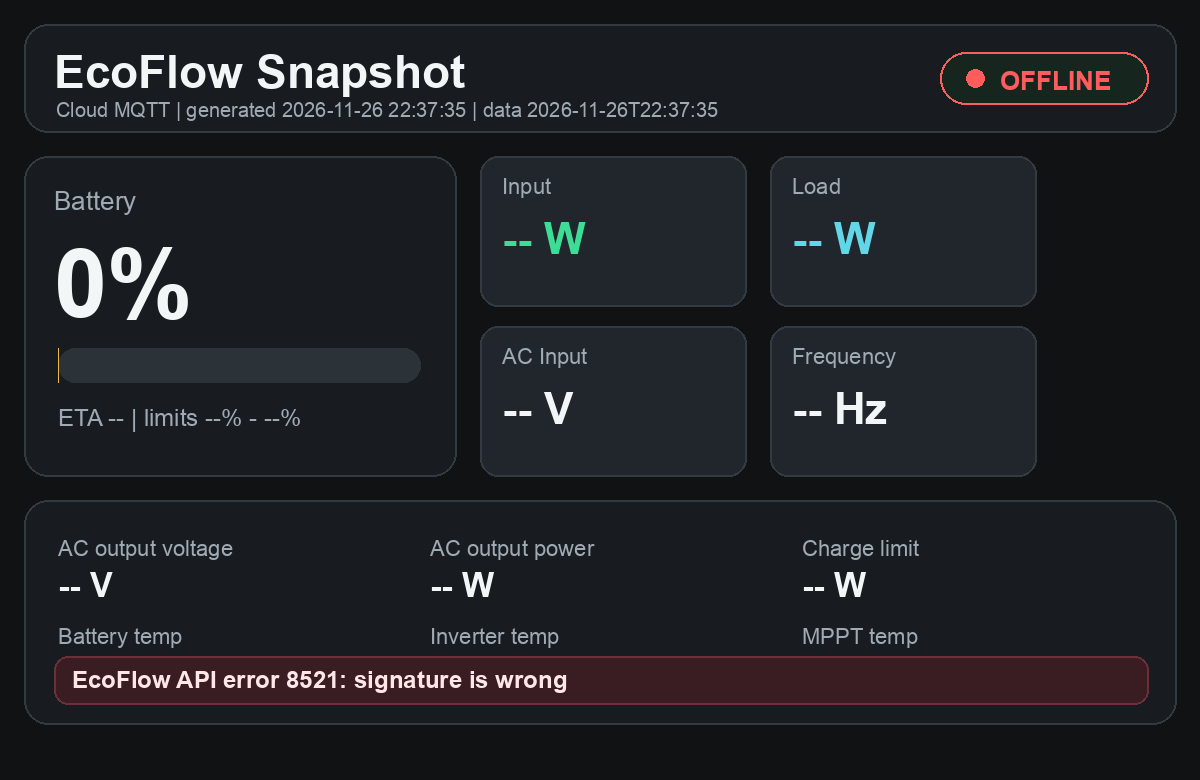
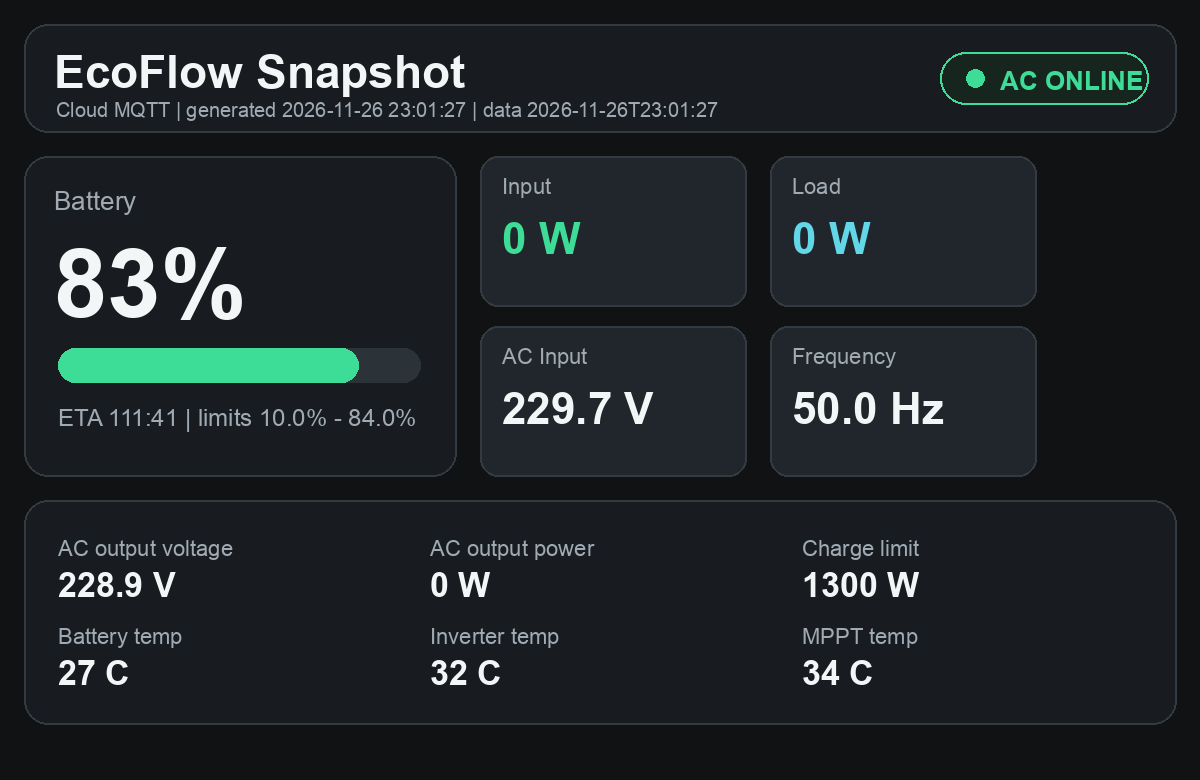
Update EcoFlow dashboard 2026-11-26 23:01:28

diff --git a/index.html b/index.html
@@ -75,7 +75,7 @@
       overflow: hidden;
       margin-top: 14px;
     }
-    .fill { width: 0%; height: 100%; background: linear-gradient(90deg, var(--green), var(--cyan)); }
+    .fill { width: 83%; height: 100%; background: linear-gradient(90deg, var(--green), var(--cyan)); }
     .cards {
       display: grid;
       grid-template-columns: repeat(4, minmax(0, 1fr));
@@ -177,34 +177,34 @@
   <header>
     <div>
       <h1>EcoFlow Snapshot</h1>
-      <div class="sub">Cloud MQTT · generated 2026-11-26T22:37:35 · data 2026-11-26T22:37:35</div>
+      <div class="sub">Cloud MQTT · generated 2026-11-26T23:01:27 · data 2026-11-26T23:01:27</div>
     </div>
-    <div class="status offline"><span class="dot"></span><span>Offline</span></div>
+    <div class="status online"><span class="dot"></span><span>AC online</span></div>
   </header>
 
-  <div class='error'>EcoFlow API error 8521: signature is wrong</div>
+  
 
   <div class="grid">
     <section>
       <h2>Battery</h2>
-      <div class="value">0%</div>
+      <div class="value">83%</div>
       <div class="battery"><div class="fill"></div></div>
-      <div class="row"><span>ETA</span><span>--</span></div>
-      <div class="row"><span>SOC limits</span><span>--% - --%</span></div>
+      <div class="row"><span>ETA</span><span>111:41</span></div>
+      <div class="row"><span>SOC limits</span><span>10.0% - 84.0%</span></div>
     </section>
     <section>
       <h2>AC</h2>
-      <div class="row"><span>Input voltage</span><span>-- V</span></div>
-      <div class="row"><span>Input frequency</span><span>-- Hz</span></div>
-      <div class="row"><span>Output voltage</span><span>-- V</span></div>
+      <div class="row"><span>Input voltage</span><span>229.7 V</span></div>
+      <div class="row"><span>Input frequency</span><span>50.0 Hz</span></div>
+      <div class="row"><span>Output voltage</span><span>228.9 V</span></div>
     </section>
   </div>
 
   <div class="cards">
-    <div class="card"><span class="label">Input</span><span class="value">-- W</span></div>
-    <div class="card"><span class="label">Load</span><span class="value">-- W</span></div>
-    <div class="card"><span class="label">Battery temp</span><span class="value">--°C</span></div>
-    <div class="card"><span class="label">Inverter temp</span><span class="value">--°C</span></div>
+    <div class="card"><span class="label">Input</span><span class="value">0 W</span></div>
+    <div class="card"><span class="label">Load</span><span class="value">0 W</span></div>
+    <div class="card"><span class="label">Battery temp</span><span class="value">27°C</span></div>
+    <div class="card"><span class="label">Inverter temp</span><span class="value">32°C</span></div>
   </div>
 
   
@@ -217,7 +217,7 @@
         <div class="daily-item"><span class="label">Зарядний ліміт</span><strong>1300 W</strong><small>пік входу 65 W · 5% ліміту</small></div>
         <div class="daily-item"><span class="label">Заряджання</span><strong>0 сек</strong><small>--</small></div>
         <div class="daily-item"><span class="label">Розряджання</span><strong>0 сек</strong><small>--</small></div>
-        <div class="daily-item"><span class="label">Енергія вхід / вихід</span><strong>79 Wh / 79 Wh</strong><small>оцінка за sample-ами</small></div>
+        <div class="daily-item"><span class="label">Енергія вхід / вихід</span><strong>81 Wh / 81 Wh</strong><small>оцінка за sample-ами</small></div>
         <div class="daily-item"><span class="label">Частота min / max</span><strong>50.0 Hz / 50.0 Hz</strong><small>25.11 23:49 / 25.11 23:49</small></div>
       </div>
     </section>
@@ -246,10 +246,33 @@
   <details>
     <summary>Snapshot JSON</summary>
     <pre>{
-  &quot;ok&quot;: false,
+  &quot;ok&quot;: true,
   &quot;source&quot;: &quot;Cloud MQTT&quot;,
-  &quot;timestamp&quot;: &quot;2026-11-26T22:37:35&quot;,
-  &quot;error&quot;: &quot;EcoFlow API error 8521: signature is wrong&quot;,
+  &quot;device&quot;: &quot;DELTA Pro&quot;,
+  &quot;timestamp&quot;: &quot;2026-11-26T23:01:27&quot;,
+  &quot;grid&quot;: true,
+  &quot;battery&quot;: {
+    &quot;soc&quot;: 83,
+    &quot;min&quot;: 10.0,
+    &quot;max&quot;: 84.0,
+    &quot;eta&quot;: &quot;111:41&quot;
+  },
+  &quot;power&quot;: {
+    &quot;in&quot;: 0,
+    &quot;out&quot;: 0,
+    &quot;acOut&quot;: 0,
+    &quot;chargeLimit&quot;: 1300
+  },
+  &quot;ac&quot;: {
+    &quot;inputVoltage&quot;: 229.739,
+    &quot;inputFreq&quot;: 50.0,
+    &quot;outputVoltage&quot;: 228.864
+  },
+  &quot;temps&quot;: {
+    &quot;battery&quot;: 27,
+    &quot;inverter&quot;: 32,
+    &quot;mppt&quot;: 34
+  },
   &quot;history&quot;: [
     {
       &quot;ts&quot;: &quot;2026-11-25T19:12:45&quot;,
@@ -368,16 +391,16 @@
   ],
   &quot;telemetry&quot;: {
     &quot;window&quot;: &quot;24h&quot;,
-    &quot;sample_count&quot;: 63,
+    &quot;sample_count&quot;: 65,
     &quot;from&quot;: &quot;2026-11-25T23:49:20&quot;,
-    &quot;to&quot;: &quot;2026-11-26T21:38:21&quot;,
+    &quot;to&quot;: &quot;2026-11-26T23:01:27&quot;,
     &quot;latest&quot;: {
       &quot;mode&quot;: &quot;idle&quot;,
       &quot;grid&quot;: true,
-      &quot;soc&quot;: 84.0,
-      &quot;ac_v&quot;: 230.895,
-      &quot;in_w&quot;: 46.0,
-      &quot;out_w&quot;: 46.0,
+      &quot;soc&quot;: 83.0,
+      &quot;ac_v&quot;: 229.739,
+      &quot;in_w&quot;: 0.0,
+      &quot;out_w&quot;: 0.0,
       &quot;charge_limit_w&quot;: 1300.0
     },
     &quot;voltage&quot;: {
@@ -423,16 +446,16 @@
       },
       &quot;charge_limit_w&quot;: 1300.0,
       &quot;max_input_pct_of_current_limit&quot;: 5,
-      &quot;input_wh_est&quot;: 79.0,
-      &quot;load_wh_est&quot;: 79.0
+      &quot;input_wh_est&quot;: 81.3,
+      &quot;load_wh_est&quot;: 81.3
     },
     &quot;modes&quot;: {
       &quot;charging_sec&quot;: 0,
       &quot;discharging_sec&quot;: 0,
-      &quot;idle_sec&quot;: 6431,
+      &quot;idle_sec&quot;: 6791,
       &quot;charging&quot;: &quot;0 сек&quot;,
       &quot;discharging&quot;: &quot;0 сек&quot;,
-      &quot;idle&quot;: &quot;1 год 47 хв&quot;,
+      &quot;idle&quot;: &quot;1 год 53 хв&quot;,
       &quot;last_charging&quot;: null,
       &quot;last_discharging&quot;: null
     }
